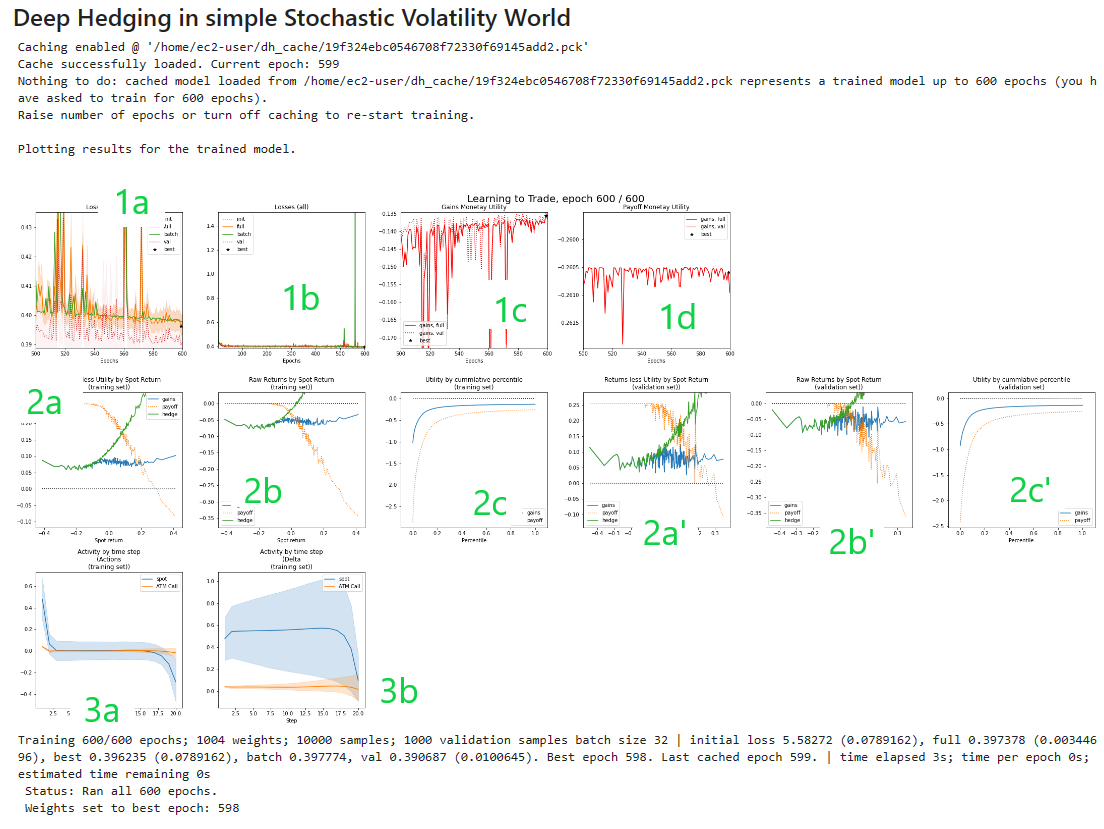
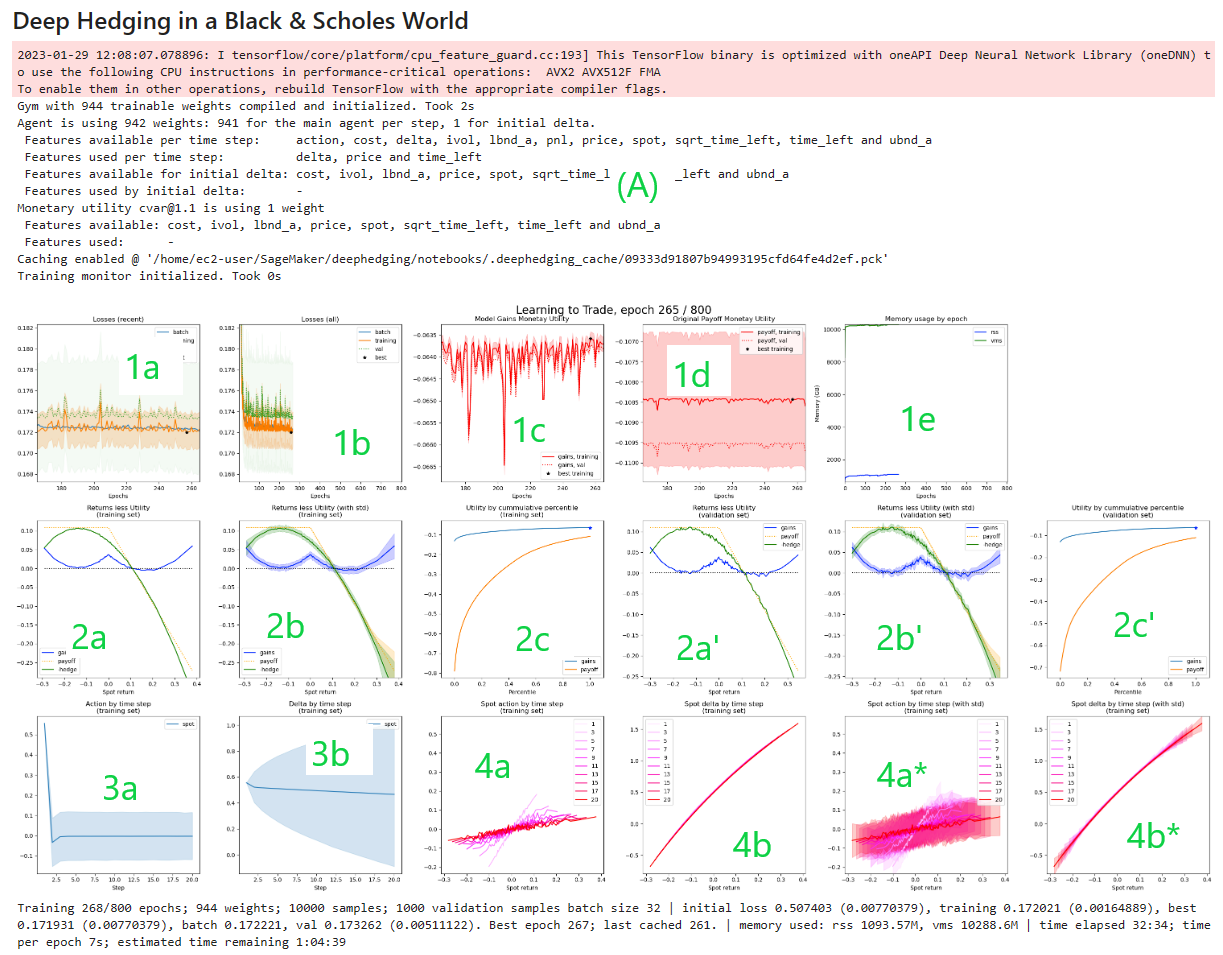
Updated documentation

diff --git a/README.md b/README.md
@@ -8,8 +8,30 @@ The notebook directory has a number of examples on how to use it.
 ### Latest major updates:
 * **Enabled caching** (Jan 8th, 2023): by default, the code now caches progress every 10 epochs. Training will be picked up at the last caching point when the same code is re-run. If training completed, running the same code again will not trigger new training; you can set `config.train.caching.mode = 'update'`.
 
-* **Recurrent Agents** (Jan 8th, 2023): the trading agent can now pass on a state from one step to another, allowing it full recurrence. Enable it with `config.gym.agent.recurrence =  r`, where `r` denotes the number of real numbers the agent may pass from one step
-to the next.
+* **Recurrent Agents** (Jan 8th, 2023): the trading agent can now pass on a state from one step to another, allowing it full recurrence. Enable it with `config.gym.agent.recurrence =  r`, where `r` denotes the number of real numbers the agent may pass from one step to the next. 
+As of Jan 29th you can also specify recurrent nodes which have 0 or 1 values using `config.gym.agent.recurrence01 = r`.
+
+* **Initial Delta Hedge** (Jan 29th, 2023): by default an additional agent is created which learns an initial delta hedge. This is useful when the `payoff` provided is not yet hedged, and therefore when the initial hedge differs materially from subsequent hedges. This can be turned off with `config.gym.agent.init_delta.active = False`.
+
+* **Optimiers** (Jan 29th, 2023): upgraded the code so optimizers can be controlled more tightly. The code also now uses TF 2.10 style optimizers.
+You can now write
+    ```
+    config.trainer.train.optimizer.name = "adam"
+    config.trainer.train.optimizer.learning_rate = 0.001
+    config.trainer.train.optimizer.clipvalue = 1.
+    config.trainer.train.optimizer.global_clipnorm = 1.
+    ```
+
+* **TensorFlow loops** (Jan 29th, 2023): the code no longer unrolls the core Deep Hedging loop, but uses `tf_while` implicitly. This helps preserving memory when many time steps are used.
+
+* **TensorBoard** (Jan 29th, 2023): added support for TensorBoard. See `notebooks/trainer-board.ipynb`. However, I did not manage to make it run on SageMaker, neither did I manage to run the profiler on my own machine.
+
+* **Visualization Update** (Jan 29th, 2023): improved visualization during training by adding (a) a view on spot delta and actions, and by adding several views which include the stddev from the mean per plotted bin.  Also added better information on network setup and features used.
+
+* **Notebooks** (Jan 29th, 2023):
+    * Added `notebooks/trainer-bs.ipynb` showing convergence of the Deep Hedging strategy vs Black & Scholoes. 
+    * Added `notebooks/trainer-recurrent-fwdstart.ipynb` which shows the improved (but not perfect) performance of recurrent networks vs standard feed forward networks for forward started options.
+    * Added `notebooks/utility0.ipynb` which illustrates various monetary utilities.
 
 _Beta version. Please report any issues. Please see installation support below._
 
@@ -246,26 +268,39 @@ The graphs show:
     
     * (1c): learned utility for the hedged payoff, last 100 epochs.
     
-    * (1c): learned utility for the unhedged payoff, last 100 epochs.
+    * (1d): learned utility for the unhedged payoff, last 100 epochs.
+
+    * (1e): memory usage
     
 * (2) visualizing the result on the training set:
     
     * (2a) for the training set shows the payoff as function of terminal spot, the hedge, and the overall gains i.e. payoff plus hedge less cost. Each of these is computed less their monetary utility, hence you are comparing terminal payoffs which have the same initial monetary utility.
 
-        Note that visualizing terminal payoffs makes sense for European payoffs, but is a lot less intuitive for more exotic payoffs.
-
-    * (2b) similar to (2a), but without subtracting the monetary utility.
+    * (2b) visualizing terminal payoffs makes sense for European payoffs, but is a lot less intuitive for more exotic payoffs. Hence, (2b) shows the same data is (2a) but
+    it adds one stddev for the value of the payoff for a given terminal spot.
 
     * (2c) shows the utility for payoff and gains by percentile for the training set. Higher is better; the algorithm
     is attempting to beat the total expected utility which is the left most percentile. In the example we see that the gains process dominates the initial payoff in all percentiles.
     
     * (2a', 2b', 2c') are the same graphs but for the validation set 
     
-* (3) visualizes actions:
+* (3, 4) visualize actions:
     
     * (3a) shows  actions per time step: blue the spot, and orange the option.
     * (3b) shows the aggregated action as deltas accross time steps. Note that the concept of "delta" only makes sense if the instrument is actually the same per time step, e.g. spot of an stock price. For floating options this is not a particularly meaningful concept.
-        
+
+    * (4a) shows the average action for the first asset (spot) for a few time steps over spot bins.
+    * (4b) shows the avergae delta for the first asset for a a few time steps over spot bins.
+    * (4a*) shows the same as (4a), but also showing a one stddev bar around each bin mid-point.
+    * (4b*) the same for (4b)
+
+Text information:
+
+* (A) provides information on the number of weights used, whether an initial delta or recurrent weights were used, features used and available, and the utility.
+
+  It also shows the caching path.
+
+* (B) Provides information during training on progress, and an estimate of total time required.
     
 
     
@@ -290,10 +325,14 @@ Copied from `notebooks/trainer.ipynb`:
     config.world.black_scholes = True
     # gym
     config.gym.objective.utility = "cvar"
-    config.gym.objective.lmbda = 10.
+    config.gym.objective.lmbda = 1.
     config.gym.agent.network.depth = 3
     config.gym.agent.network.activation = "softplus"
     # trainer
+    config.trainer.train.optimizer.name = "adam"
+    config.trainer.train.optimizer.learning_rate = 0.001
+    config.trainer.train.optimizer.clipvalue = 1.
+    config.trainer.train.optimizer.global_clipnorm = 1.
     config.trainer.train.batch_size = None
     config.trainer.train.epochs = 400
     config.trainer.visual.epoch_refresh = 1
@@ -304,8 +343,8 @@ Copied from `notebooks/trainer.ipynb`:
     display(Markdown("## Deep Hedging in a Black \& Scholes World"))
 
     # create world
-    world      = SimpleWorld_Spot_ATM( config.world ) # training set
-    val_world  = world.clone(samples=1000)            # validation set
+    world      = SimpleWorld_Spot_ATM( config.world )              # training set
+    val_world  = world.clone(samples=config.world("samples")//2)   # validation set
 
     # create training environment
     gym = VanillaDeepHedgingGym( config.gym )
@@ -324,22 +363,31 @@ Copied from `notebooks/trainer.ipynb`:
     config.done()
     ## Config Parameters
 
-Below is the output of the `print( config.usage_report() )` call above. It provides a summary of all config values available, their defaults, and what values where used.
+Below is an example output  `print( config.usage_report() )`. It provides a summary of all config values available, their defaults, and what values where used.
 
     =========================================
     Config usage report
     =========================================
+    config.gym.agent.init_delta.network['activation'] = relu # Network activation function; default: relu
+    config.gym.agent.init_delta.network['depth'] = 1 # Network depth; default: 1
+    config.gym.agent.init_delta.network['final_activation'] = linear # Network activation function for the last layer; default: linear
+    config.gym.agent.init_delta.network['width'] = 1 # Network width; default: 1
+    config.gym.agent.init_delta.network['zero_model'] = False # Create a model with zero initial value, but randomized initial gradients; default: False
+    config.gym.agent.init_delta['active'] = True # Whether or not to train in addition a delta layer for the first step; default: True
+    config.gym.agent.init_delta['features'] = [] # Named features for the agent to use for the initial delta network; default: []
     config.gym.agent.network['activation'] = softplus # Network activation function; default: relu
     config.gym.agent.network['depth'] = 3 # Network depth; default: 3
     config.gym.agent.network['final_activation'] = linear # Network activation function for the last layer; default: linear
     config.gym.agent.network['width'] = 20 # Network width; default: 20
     config.gym.agent.network['zero_model'] = False # Create a model with zero initial value, but randomized initial gradients; default: False
+    config.gym.agent.state['features'] = [] # Named features for the agent to use for the initial state network; default: []
     config.gym.agent['agent_type'] = feed_forward # Which network agent type to use; default: feed_forward
     config.gym.agent['features'] = ['price', 'delta', 'time_left'] # Named features for the agent to use; default: ['price', 'delta', 'time_left']
-    config.gym.agent['recurrence'] = 0 # Number of recurrent states. Set to zero to turn off recurrence; default: 0
+    config.gym.agent['recurrence'] = 0 # Number of real recurrent states. Set to zero to turn off recurrence; default: 0
+    config.gym.agent['recurrence01'] = 0 # Number of digital recurrent states. Set to zero to turn off recurrence; default: 0
     config.gym.environment['hard_clip'] = False # Use min/max instread of soft clip for limiting actions by their bounds; default: False
     config.gym.environment['outer_clip'] = True # Apply a hard clip 'outer_clip_cut_off' times the boundaries; default: True
-    config.gym.environment['outer_clip_cut_off'] = 100.0 # Multiplier on bounds for outer_clip; default: 100.0
+    config.gym.environment['outer_clip_cut_off'] = 10.0 # Multiplier on bounds for outer_clip; default: 10.0
     config.gym.environment['softclip_hinge_softness'] = 1.0 # Specifies softness of bounding actions between lbnd_a and ubnd_a; default: 1.0
     config.gym.objective.y.network['activation'] = relu # Network activation function; default: relu
     config.gym.objective.y.network['depth'] = 3 # Network depth; default: 3
@@ -347,32 +395,43 @@ Below is the output of the `print( config.usage_report() )` call above. It provi
     config.gym.objective.y.network['width'] = 20 # Network width; default: 20
     config.gym.objective.y.network['zero_model'] = False # Create a model with zero initial value, but randomized initial gradients; default: False
     config.gym.objective.y['features'] = [] # Path-wise features used to define 'y'. If left empty, then 'y' becomes a simple variable; default: []
-    config.gym.objective['lmbda'] = 10.0 # Risk aversion; default: 1.0
+    config.gym.objective['lmbda'] = 1.0 # Risk aversion; default: 1.0
     config.gym.objective['utility'] = cvar # Type of monetary utility; default: exp2
     config.gym.tensorflow['seed'] = 423423423 # Set tensor random seed. Leave to None if not desired; default: 423423423
-    config.trainer.caching['directory'] = ~/dh_cache # If specified, will use the directory to store a persistence file for the model; default: ~/dh_cache
+    config.trainer.caching['debug_file_name'] = None # Allows overwriting the filename for debugging an explicit cached state; default: None
+    config.trainer.caching['directory'] = ./.deephedging_cache # If specified, will use the directory to store a persistence file for the model; default: ./.deephedging_cache
     config.trainer.caching['epoch_freq'] = 10 # How often to cache results, in number of epochs; default: 10
     config.trainer.caching['mode'] = on # Caching strategy: 'on' for standard caching; 'off' to turn off; 'update' to overwrite any existing cache; 'clear' to clear existing caches; 'readonly' to read existing caches but not write new ones; default: on
+    config.trainer.debug['check_numerics'] = False # Whether to check numerics; default: False
+    config.trainer.train.optimizer['amsgrad'] = False # Parameter amsgrad for <class 'keras.optimizers.optimizer_v2.adam.Adam'>; default: False
+    config.trainer.train.optimizer['beta_1'] = 0.9 # Parameter beta_1 for <class 'keras.optimizers.optimizer_v2.adam.Adam'>; default: 0.9
+    config.trainer.train.optimizer['beta_2'] = 0.999 # Parameter beta_2 for <class 'keras.optimizers.optimizer_v2.adam.Adam'>; default: 0.999
+    config.trainer.train.optimizer['clipnorm'] = None # Parameter clipnorm for keras optimizers; default: None
+    config.trainer.train.optimizer['clipvalue'] = None # Parameter clipvalue for keras optimizers; default: None
+    config.trainer.train.optimizer['epsilon'] = 1e-07 # Parameter epsilon for <class 'keras.optimizers.optimizer_v2.adam.Adam'>; default: 1e-07
+    config.trainer.train.optimizer['global_clipnorm'] = None # Parameter global_clipnorm for keras optimizers; default: None
+    config.trainer.train.optimizer['learning_rate'] = 0.001 # Parameter learning_rate for <class 'keras.optimizers.optimizer_v2.adam.Adam'>; default: 0.001
+    config.trainer.train.optimizer['name'] = adam # Optimizer name. See https://www.tensorflow.org/api_docs/python/tf/keras/optimizers; default: adam
     config.trainer.train.tensor_board['hist_freq'] = 1 # Specify tensor board log frequency; default: 1
     config.trainer.train.tensor_board['log_dir'] =  # Specify tensor board log directory
+    config.trainer.train.tensor_board['profile_batch'] = 0 # Batch used for profiling. Set to non-zero to activate profiling; default: 0
     config.trainer.train['batch_size'] = None # Batch size; default: None
-    config.trainer.train['epochs'] = 400 # Epochs; default: 100
+    config.trainer.train['epochs'] = 800 # Epochs; default: 100
     config.trainer.train['learing_rate'] = None # Manually set the learning rate of the optimizer; default: None
-    config.trainer.train['optimizer'] = RMSprop # Optimizer; default: RMSprop
     config.trainer.train['run_eagerly'] = False # Keras model run_eagerly. Turn to True for debugging. This slows down training. Use None for default; default: False
-    config.trainer.train['time_out'] = None # Timeout in seconds. None for no timeout; default: None
+    config.trainer.train['tf_verbose'] = 0 # Verbosity for TensorFlow fit(); default: 0
     config.trainer.visual.fig['col_nums'] = 6 # Number of columbs; default: 6
     config.trainer.visual.fig['col_size'] = 5 # Plot size of a column; default: 5
     config.trainer.visual.fig['row_size'] = 5 # Plot size of a row; default: 5
-    config.trainer.visual['bins'] = 200 # How many x to plot; default: 200
+    config.trainer.visual['bins'] = 100 # How many x to plot; default: 100
     config.trainer.visual['confidence_pcnt_hi'] = 0.75 # Upper percentile for confidence intervals; default: 0.5
     config.trainer.visual['confidence_pcnt_lo'] = 0.25 # Lower percentile for confidence intervals; default: 0.5
-    config.trainer.visual['epoch_refresh'] = 1 # Epoch fefresh frequency for visualizations; default: 10
+    config.trainer.visual['epoch_refresh'] = 5 # Epoch fefresh frequency for visualizations; default: 10
     config.trainer.visual['err_dev'] = 1.0 # How many standard errors to add to loss to assess best performance; default: 1.0
-    config.trainer.visual['lookback_window'] = 30 # Lookback window for determining y min/max; default: 30
+    config.trainer.visual['lookback_window'] = 200 # Lookback window for determining y min/max in graphs; default: 200
     config.trainer.visual['show_epochs'] = 100 # Maximum epochs displayed; default: 100
-    config.trainer.visual['time_refresh'] = 10 # Time refresh interval for visualizations; default: 20
-    config.trainer['monitor_type'] = notebook # What kind of progress monitor to use. Set to 'notebook' for jupyter use; default: notebook
+    config.trainer.visual['time_slices'] = 10 # How many slice of spot action and delta to print; default: 10
+    config.trainer['output_level'] = all # What to print during training; default: all
     config.world['black_scholes'] = True # Hard overwrite to use a black & scholes model with vol 'rvol' and drift 'drift'. Also turns off the option as a tradable instrument by setting strike = 0; default: False
     config.world['corr_ms'] = 0.5 # Correlation between the asset and its mean; default: 0.5
     config.world['corr_vi'] = 0.8 # Correlation between the implied vol and the asset volatility; default: 0.8
@@ -392,7 +451,7 @@ Below is the output of the `print( config.usage_report() )` call above. It provi
     config.world['meanrev_rvol'] = 2.0 # Mean reversion for realized vol vs implied vol; default: 2.0
     config.world['no_stoch_drift'] = False # If true, turns off the stochastic drift of the asset, by setting meanrev_drift = 0. and drift_vol = 0; default: False
     config.world['no_stoch_vol'] = False # If true, turns off stochastic realized and implied vol, by setting meanrev_*vol = 0 and volvol_*vol = 0; default: False
-    config.world['payoff'] = <function SimpleWorld_Spot_ATM.__init__.<locals>.<lambda> at 0x7fc935c38b80> # Payoff function with parameter spots[samples,steps+1]. Must return a vector [samples]. The default is a short call with strike 1: '- np.maximum( spots[:,-1] - 1, 0. )'. A short forward starting ATM call is given as '- np.maximum( spots[:,-1] - spots[:,0], 0. )'. You can also use None for zero, or a simple float; default: Short call with strike 1
+    config.world['payoff'] = atmcall # Payoff function with parameter spots[samples,steps+1]. Can be a function which must return a vector [samples]. Can also be short 'atmcall' or short 'atmput', or a fixed numnber. The default is 'atmcall' which is a short call with strike 1: '- np.maximum( spots[:,-1] - 1, 0. )'. A short forward starting ATM call is given as '- np.maximum( spots[:,-1] - spots[:,0], 0. )'; default: atmcall
     config.world['rcorr_vs'] = -0.5 # Residual correlation between the asset and its implied volatility; default: -0.5
     config.world['rvol'] = 0.2 # Initial realized volatility; default: 0.2
     config.world['samples'] = 10000 # Number of samples; default: 1000
@@ -458,8 +517,8 @@ Deep Hedging uses `tensorflow-probability` which does _not_ provide a robust dep
 In your local conda environment use the following (latest version requirements can be found in `requirements.txt`):
         
         conda install "cdxbasics>=0.2.9" -c hansbuehler
-        conda install -c conda-forge tensorflow
-        conda install -c conda-forge tensorflow-probability
+        conda install -c conda-forge tensorflow>=2.10
+        conda install -c conda-forge tensorflow-probability==0.14
 
 At the time of writing, this gives you TensowFlow 2.10 and the correct `tensorflow-probability` version 0.14.
 Then check that the following works:
@@ -472,17 +531,17 @@ See also below for comments on GPU use.
 
 ### AWS SageMaker
 
-(1/1/2023) Finally AWS SageMaker supports TensorFlow 2.7 with and without GPU with the conda environment `conda_tensorflow2_p38`. It is still pretty buggy (e.g. conda is inconsistent out of the box) but seems to work. AWS tends to change their available conda packages, so check which one is available when you are trying this.
+(29/1/2023) Finally AWS SageMaker supports TensorFlow 2.10 with and without GPU with the conda environment `conda_tensorflow2_p310`. It is still pretty buggy (e.g. conda is inconsistent out of the box) but seems to work. AWS tends to change their available conda packages, so check which one is available when you are trying this.
 
 In order to run Deep Hedging, launch a decent AWS SageMaker instance such as `ml.c5.2xlarge`.
 Open a terminal and write:
         
         bash
-        conda activate tensorflow2_p38
+        conda activate tensorflow2_p310
         python -m pip install --upgrade pip
         pip install cdxbasics tensorflow_probability==0.14  
 
-The reason we are using `pip` here an not `conda` is that `conda_tensorflow2_p38` is inconsistent, so using `conda` is pretty unreliable and very slow. Either way, above should give you an environemnt with Tensorflow 2.7, including with GPU support if your selected instance has GPUs. (Note that GPUs do not seem to bring benefits with the current code base.) 
+The reason we are using `pip` here an not `conda` is that `conda_tensorflow2_p310` is inconsistent, so using `conda` is pretty unreliable and very slow. Either way, above should give you an environemnt with Tensorflow 2.10, including with GPU support if your selected instance has GPUs. (Note that GPUs do not seem to bring benefits with the current code base.) 
 
 If you have cloned the [Deep Hedging git directory](https://github.com/hansbuehler/deephedging) via SageMaker, then the `deephedging` directory is <i>not</i> in your include path, even if the directory shows up in your jupyter hub file list. That is why I've added some magic code on top of the various noteooks:
 
